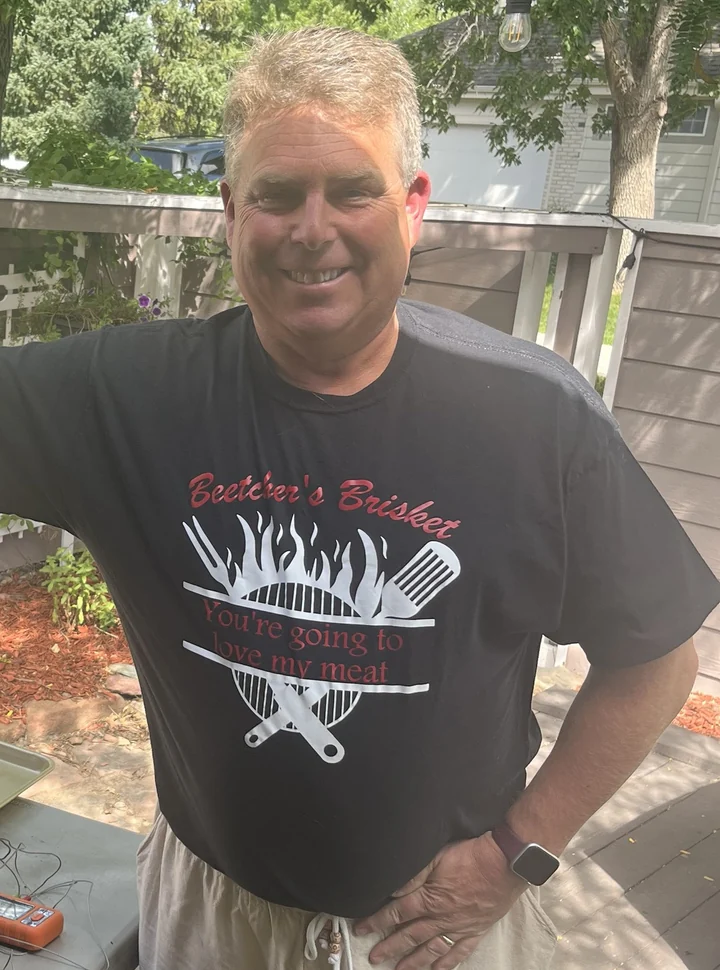
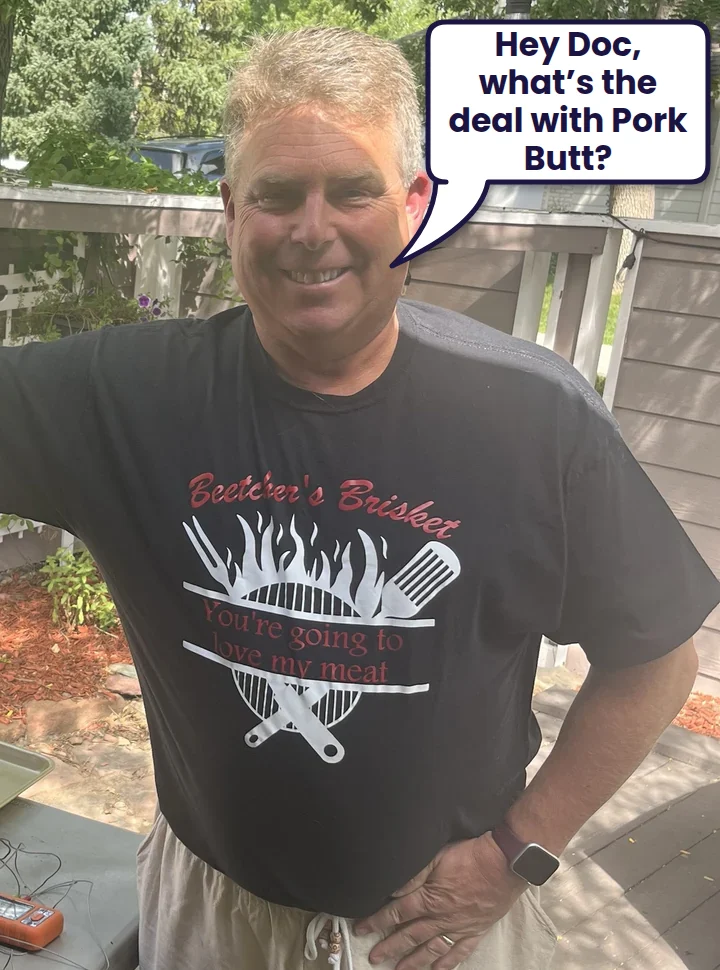
Brisket panel: sticky note and Pork Butt bubble; valley caption; Mesa Verde photo; intro in Todd's words

Changed region(s): [[0.55, 0.0, 1.0, 0.2784]]

diff --git a/enjoy/main.js b/enjoy/main.js
@@ -26,6 +26,7 @@ const ASK_ENDPOINT = '';
 // colors: two-stop gradient used when there is no image, and as the tint over one.
 // Each panel leads with the human result (what happened to someone Todd cares about), then the story, then how he asked.
 // NOTE: prompts and payoffs below are PLACEHOLDER sample content until Todd supplies real ones.
+// note: optional sticky note stuck on the collage board (text that belongs with the photos).
 // collage: 'pair' gives two landscape photos equal weight (default layout favors one large print and one small sticker).
 // photos: [{ src, alt, kind: 'print' | 'cutout', rot: degrees, hold: 'tape' | 'corners' | 'magnet' | 'pin' | 'clip' | 'none' }]
 // Like photos on a fridge: each one can be held up its own way.
@@ -49,7 +50,8 @@ const STORIES = [
     id: 'brisket',
     category: 'Cooking',
     title: 'Cook a brisket without the panic',
-    line: 'I asked AI how to cook a brisket, and our friend Diana and her daughters, Kate and Melissa, came over to eat it. It never made it from the counter to the table: everyone stood around and carved it up. Meat candy. Friends have been talking about it for years.',
+    line: 'It never made it from the counter to the table: everyone stood around and carved it up. Meat candy. Friends have been talking about it for years.',
+    note: 'I asked Doc how to cook a brisket, and our friend Diana and her daughters, Kate and Melissa, came over to eat it.',
     promptLabel: 'See how I asked',
     prompt: 'For thirty years I let my wife cook the burgers and the chicken and pretended I didn\u2019t know the grill. Then I asked AI. The trick wasn\u2019t \u201chow do I cook a brisket?\u201d It was learning to ask like this, step by step:',
     steps: [
@@ -181,6 +183,12 @@ function renderStories() {
         fig.appendChild(im);
         board.appendChild(fig);
       });
+      if (story.note) {
+        panel.classList.add('moment--note');
+        const note = el('figure', 'sticker sticker--note');
+        note.appendChild(el('p', '', story.note));
+        board.appendChild(note);
+      }
       panel.appendChild(board);
     }
 

diff --git a/enjoy/about/style.css b/enjoy/about/style.css
@@ -238,6 +238,17 @@ a.fab { display: inline-block; text-decoration: none; }
 .sticker:nth-child(2) { right: 0; bottom: 0; width: 42%; z-index: 2; }
 .sticker:only-child { left: 8%; top: 18%; width: 84%; }
 .moment--collage .moment__body { padding-top: var(--sp-lg); }
+/* Sticky note on the collage board */
+.sticker--note { background: #fff6a8; color: #2a1a3a; padding: 14px 16px 18px; border-radius: 4px; box-shadow: 0 12px 24px rgba(20,8,40,.4); font: 700 1.5rem/1.12 'Caveat', 'Comic Sans MS', cursive; }
+.sticker--note:nth-child(3) { left: 0; bottom: 0; width: 58%; z-index: 3; }
+.sticker--note p { margin: 0; }
+.moment--note .moment__photos { aspect-ratio: 1 / 1.25; }
+.moment--note .sticker--note { font-size: 1.25rem; width: 56%; }
+.moment--note .moment__photos { aspect-ratio: 1 / 1.35; }
+.moment--note .sticker:nth-child(1) { width: 68%; }
+.moment--note .sticker:nth-child(2) { width: 62%; bottom: 0; }
+.moment--note .sticker--note:nth-child(3) { bottom: auto; top: 44%; left: 0; }
+
 /* Pair layout: two landscape prints of similar weight */
 .moment--pair .moment__photos { aspect-ratio: 1 / 1.1; width: min(92%, 460px); }
 .moment--pair .sticker:nth-child(1) { left: 0; top: 0; width: 76%; }
@@ -247,6 +258,11 @@ a.fab { display: inline-block; text-decoration: none; }
   .moment--collage .moment__body { margin: 0; max-width: 560px; padding-left: max(var(--content-padding), calc((100vw - 960px) / 2)); }
   .moment--collage .moment__photos { position: absolute; right: max(3%, calc((100vw - 1100px) / 2)); top: 50%; transform: translateY(-50%); width: min(46vw, 560px); margin: 0; }
   .moment--pair .moment__photos { aspect-ratio: 1 / 1.05; width: min(48vw, 600px); }
+  .moment--note .moment__photos { aspect-ratio: 1 / 1; }
+  .moment--note .sticker--note { font-size: 1.5rem; width: 58%; }
+  .moment--note .sticker:nth-child(1) { width: 66%; }
+  .moment--note .sticker:nth-child(2) { width: 52%; }
+  .moment--note .sticker--note:nth-child(3) { top: auto; bottom: 0; width: 50%; }
 }
 
 /* ------- Easter egg: the period after the hero line is a door to /agora/ ------- */

diff --git a/enjoy/agora/style.css b/enjoy/agora/style.css
@@ -238,6 +238,17 @@ a.fab { display: inline-block; text-decoration: none; }
 .sticker:nth-child(2) { right: 0; bottom: 0; width: 42%; z-index: 2; }
 .sticker:only-child { left: 8%; top: 18%; width: 84%; }
 .moment--collage .moment__body { padding-top: var(--sp-lg); }
+/* Sticky note on the collage board */
+.sticker--note { background: #fff6a8; color: #2a1a3a; padding: 14px 16px 18px; border-radius: 4px; box-shadow: 0 12px 24px rgba(20,8,40,.4); font: 700 1.5rem/1.12 'Caveat', 'Comic Sans MS', cursive; }
+.sticker--note:nth-child(3) { left: 0; bottom: 0; width: 58%; z-index: 3; }
+.sticker--note p { margin: 0; }
+.moment--note .moment__photos { aspect-ratio: 1 / 1.25; }
+.moment--note .sticker--note { font-size: 1.25rem; width: 56%; }
+.moment--note .moment__photos { aspect-ratio: 1 / 1.35; }
+.moment--note .sticker:nth-child(1) { width: 68%; }
+.moment--note .sticker:nth-child(2) { width: 62%; bottom: 0; }
+.moment--note .sticker--note:nth-child(3) { bottom: auto; top: 44%; left: 0; }
+
 /* Pair layout: two landscape prints of similar weight */
 .moment--pair .moment__photos { aspect-ratio: 1 / 1.1; width: min(92%, 460px); }
 .moment--pair .sticker:nth-child(1) { left: 0; top: 0; width: 76%; }
@@ -247,6 +258,11 @@ a.fab { display: inline-block; text-decoration: none; }
   .moment--collage .moment__body { margin: 0; max-width: 560px; padding-left: max(var(--content-padding), calc((100vw - 960px) / 2)); }
   .moment--collage .moment__photos { position: absolute; right: max(3%, calc((100vw - 1100px) / 2)); top: 50%; transform: translateY(-50%); width: min(46vw, 560px); margin: 0; }
   .moment--pair .moment__photos { aspect-ratio: 1 / 1.05; width: min(48vw, 600px); }
+  .moment--note .moment__photos { aspect-ratio: 1 / 1; }
+  .moment--note .sticker--note { font-size: 1.5rem; width: 58%; }
+  .moment--note .sticker:nth-child(1) { width: 66%; }
+  .moment--note .sticker:nth-child(2) { width: 52%; }
+  .moment--note .sticker--note:nth-child(3) { top: auto; bottom: 0; width: 50%; }
 }
 
 /* ------- Easter egg: the period after the hero line is a door to /agora/ ------- */

diff --git a/enjoy/built/style.css b/enjoy/built/style.css
@@ -238,6 +238,17 @@ a.fab { display: inline-block; text-decoration: none; }
 .sticker:nth-child(2) { right: 0; bottom: 0; width: 42%; z-index: 2; }
 .sticker:only-child { left: 8%; top: 18%; width: 84%; }
 .moment--collage .moment__body { padding-top: var(--sp-lg); }
+/* Sticky note on the collage board */
+.sticker--note { background: #fff6a8; color: #2a1a3a; padding: 14px 16px 18px; border-radius: 4px; box-shadow: 0 12px 24px rgba(20,8,40,.4); font: 700 1.5rem/1.12 'Caveat', 'Comic Sans MS', cursive; }
+.sticker--note:nth-child(3) { left: 0; bottom: 0; width: 58%; z-index: 3; }
+.sticker--note p { margin: 0; }
+.moment--note .moment__photos { aspect-ratio: 1 / 1.25; }
+.moment--note .sticker--note { font-size: 1.25rem; width: 56%; }
+.moment--note .moment__photos { aspect-ratio: 1 / 1.35; }
+.moment--note .sticker:nth-child(1) { width: 68%; }
+.moment--note .sticker:nth-child(2) { width: 62%; bottom: 0; }
+.moment--note .sticker--note:nth-child(3) { bottom: auto; top: 44%; left: 0; }
+
 /* Pair layout: two landscape prints of similar weight */
 .moment--pair .moment__photos { aspect-ratio: 1 / 1.1; width: min(92%, 460px); }
 .moment--pair .sticker:nth-child(1) { left: 0; top: 0; width: 76%; }
@@ -247,6 +258,11 @@ a.fab { display: inline-block; text-decoration: none; }
   .moment--collage .moment__body { margin: 0; max-width: 560px; padding-left: max(var(--content-padding), calc((100vw - 960px) / 2)); }
   .moment--collage .moment__photos { position: absolute; right: max(3%, calc((100vw - 1100px) / 2)); top: 50%; transform: translateY(-50%); width: min(46vw, 560px); margin: 0; }
   .moment--pair .moment__photos { aspect-ratio: 1 / 1.05; width: min(48vw, 600px); }
+  .moment--note .moment__photos { aspect-ratio: 1 / 1; }
+  .moment--note .sticker--note { font-size: 1.5rem; width: 58%; }
+  .moment--note .sticker:nth-child(1) { width: 66%; }
+  .moment--note .sticker:nth-child(2) { width: 52%; }
+  .moment--note .sticker--note:nth-child(3) { top: auto; bottom: 0; width: 50%; }
 }
 
 /* ------- Easter egg: the period after the hero line is a door to /agora/ ------- */

diff --git a/enjoy/clinic/style.css b/enjoy/clinic/style.css
@@ -238,6 +238,17 @@ a.fab { display: inline-block; text-decoration: none; }
 .sticker:nth-child(2) { right: 0; bottom: 0; width: 42%; z-index: 2; }
 .sticker:only-child { left: 8%; top: 18%; width: 84%; }
 .moment--collage .moment__body { padding-top: var(--sp-lg); }
+/* Sticky note on the collage board */
+.sticker--note { background: #fff6a8; color: #2a1a3a; padding: 14px 16px 18px; border-radius: 4px; box-shadow: 0 12px 24px rgba(20,8,40,.4); font: 700 1.5rem/1.12 'Caveat', 'Comic Sans MS', cursive; }
+.sticker--note:nth-child(3) { left: 0; bottom: 0; width: 58%; z-index: 3; }
+.sticker--note p { margin: 0; }
+.moment--note .moment__photos { aspect-ratio: 1 / 1.25; }
+.moment--note .sticker--note { font-size: 1.25rem; width: 56%; }
+.moment--note .moment__photos { aspect-ratio: 1 / 1.35; }
+.moment--note .sticker:nth-child(1) { width: 68%; }
+.moment--note .sticker:nth-child(2) { width: 62%; bottom: 0; }
+.moment--note .sticker--note:nth-child(3) { bottom: auto; top: 44%; left: 0; }
+
 /* Pair layout: two landscape prints of similar weight */
 .moment--pair .moment__photos { aspect-ratio: 1 / 1.1; width: min(92%, 460px); }
 .moment--pair .sticker:nth-child(1) { left: 0; top: 0; width: 76%; }
@@ -247,6 +258,11 @@ a.fab { display: inline-block; text-decoration: none; }
   .moment--collage .moment__body { margin: 0; max-width: 560px; padding-left: max(var(--content-padding), calc((100vw - 960px) / 2)); }
   .moment--collage .moment__photos { position: absolute; right: max(3%, calc((100vw - 1100px) / 2)); top: 50%; transform: translateY(-50%); width: min(46vw, 560px); margin: 0; }
   .moment--pair .moment__photos { aspect-ratio: 1 / 1.05; width: min(48vw, 600px); }
+  .moment--note .moment__photos { aspect-ratio: 1 / 1; }
+  .moment--note .sticker--note { font-size: 1.5rem; width: 58%; }
+  .moment--note .sticker:nth-child(1) { width: 66%; }
+  .moment--note .sticker:nth-child(2) { width: 52%; }
+  .moment--note .sticker--note:nth-child(3) { top: auto; bottom: 0; width: 50%; }
 }
 
 /* ------- Easter egg: the period after the hero line is a door to /agora/ ------- */

diff --git a/enjoy/curriculum/style.css b/enjoy/curriculum/style.css
@@ -238,6 +238,17 @@ a.fab { display: inline-block; text-decoration: none; }
 .sticker:nth-child(2) { right: 0; bottom: 0; width: 42%; z-index: 2; }
 .sticker:only-child { left: 8%; top: 18%; width: 84%; }
 .moment--collage .moment__body { padding-top: var(--sp-lg); }
+/* Sticky note on the collage board */
+.sticker--note { background: #fff6a8; color: #2a1a3a; padding: 14px 16px 18px; border-radius: 4px; box-shadow: 0 12px 24px rgba(20,8,40,.4); font: 700 1.5rem/1.12 'Caveat', 'Comic Sans MS', cursive; }
+.sticker--note:nth-child(3) { left: 0; bottom: 0; width: 58%; z-index: 3; }
+.sticker--note p { margin: 0; }
+.moment--note .moment__photos { aspect-ratio: 1 / 1.25; }
+.moment--note .sticker--note { font-size: 1.25rem; width: 56%; }
+.moment--note .moment__photos { aspect-ratio: 1 / 1.35; }
+.moment--note .sticker:nth-child(1) { width: 68%; }
+.moment--note .sticker:nth-child(2) { width: 62%; bottom: 0; }
+.moment--note .sticker--note:nth-child(3) { bottom: auto; top: 44%; left: 0; }
+
 /* Pair layout: two landscape prints of similar weight */
 .moment--pair .moment__photos { aspect-ratio: 1 / 1.1; width: min(92%, 460px); }
 .moment--pair .sticker:nth-child(1) { left: 0; top: 0; width: 76%; }
@@ -247,6 +258,11 @@ a.fab { display: inline-block; text-decoration: none; }
   .moment--collage .moment__body { margin: 0; max-width: 560px; padding-left: max(var(--content-padding), calc((100vw - 960px) / 2)); }
   .moment--collage .moment__photos { position: absolute; right: max(3%, calc((100vw - 1100px) / 2)); top: 50%; transform: translateY(-50%); width: min(46vw, 560px); margin: 0; }
   .moment--pair .moment__photos { aspect-ratio: 1 / 1.05; width: min(48vw, 600px); }
+  .moment--note .moment__photos { aspect-ratio: 1 / 1; }
+  .moment--note .sticker--note { font-size: 1.5rem; width: 58%; }
+  .moment--note .sticker:nth-child(1) { width: 66%; }
+  .moment--note .sticker:nth-child(2) { width: 52%; }
+  .moment--note .sticker--note:nth-child(3) { top: auto; bottom: 0; width: 50%; }
 }
 
 /* ------- Easter egg: the period after the hero line is a door to /agora/ ------- */

diff --git a/enjoy/faq/style.css b/enjoy/faq/style.css
@@ -238,6 +238,17 @@ a.fab { display: inline-block; text-decoration: none; }
 .sticker:nth-child(2) { right: 0; bottom: 0; width: 42%; z-index: 2; }
 .sticker:only-child { left: 8%; top: 18%; width: 84%; }
 .moment--collage .moment__body { padding-top: var(--sp-lg); }
+/* Sticky note on the collage board */
+.sticker--note { background: #fff6a8; color: #2a1a3a; padding: 14px 16px 18px; border-radius: 4px; box-shadow: 0 12px 24px rgba(20,8,40,.4); font: 700 1.5rem/1.12 'Caveat', 'Comic Sans MS', cursive; }
+.sticker--note:nth-child(3) { left: 0; bottom: 0; width: 58%; z-index: 3; }
+.sticker--note p { margin: 0; }
+.moment--note .moment__photos { aspect-ratio: 1 / 1.25; }
+.moment--note .sticker--note { font-size: 1.25rem; width: 56%; }
+.moment--note .moment__photos { aspect-ratio: 1 / 1.35; }
+.moment--note .sticker:nth-child(1) { width: 68%; }
+.moment--note .sticker:nth-child(2) { width: 62%; bottom: 0; }
+.moment--note .sticker--note:nth-child(3) { bottom: auto; top: 44%; left: 0; }
+
 /* Pair layout: two landscape prints of similar weight */
 .moment--pair .moment__photos { aspect-ratio: 1 / 1.1; width: min(92%, 460px); }
 .moment--pair .sticker:nth-child(1) { left: 0; top: 0; width: 76%; }
@@ -247,6 +258,11 @@ a.fab { display: inline-block; text-decoration: none; }
   .moment--collage .moment__body { margin: 0; max-width: 560px; padding-left: max(var(--content-padding), calc((100vw - 960px) / 2)); }
   .moment--collage .moment__photos { position: absolute; right: max(3%, calc((100vw - 1100px) / 2)); top: 50%; transform: translateY(-50%); width: min(46vw, 560px); margin: 0; }
   .moment--pair .moment__photos { aspect-ratio: 1 / 1.05; width: min(48vw, 600px); }
+  .moment--note .moment__photos { aspect-ratio: 1 / 1; }
+  .moment--note .sticker--note { font-size: 1.5rem; width: 58%; }
+  .moment--note .sticker:nth-child(1) { width: 66%; }
+  .moment--note .sticker:nth-child(2) { width: 52%; }
+  .moment--note .sticker--note:nth-child(3) { top: auto; bottom: 0; width: 50%; }
 }
 
 /* ------- Easter egg: the period after the hero line is a door to /agora/ ------- */

diff --git a/enjoy/style.css b/enjoy/style.css
@@ -238,6 +238,17 @@ a.fab { display: inline-block; text-decoration: none; }
 .sticker:nth-child(2) { right: 0; bottom: 0; width: 42%; z-index: 2; }
 .sticker:only-child { left: 8%; top: 18%; width: 84%; }
 .moment--collage .moment__body { padding-top: var(--sp-lg); }
+/* Sticky note on the collage board */
+.sticker--note { background: #fff6a8; color: #2a1a3a; padding: 14px 16px 18px; border-radius: 4px; box-shadow: 0 12px 24px rgba(20,8,40,.4); font: 700 1.5rem/1.12 'Caveat', 'Comic Sans MS', cursive; }
+.sticker--note:nth-child(3) { left: 0; bottom: 0; width: 58%; z-index: 3; }
+.sticker--note p { margin: 0; }
+.moment--note .moment__photos { aspect-ratio: 1 / 1.25; }
+.moment--note .sticker--note { font-size: 1.25rem; width: 56%; }
+.moment--note .moment__photos { aspect-ratio: 1 / 1.35; }
+.moment--note .sticker:nth-child(1) { width: 68%; }
+.moment--note .sticker:nth-child(2) { width: 62%; bottom: 0; }
+.moment--note .sticker--note:nth-child(3) { bottom: auto; top: 44%; left: 0; }
+
 /* Pair layout: two landscape prints of similar weight */
 .moment--pair .moment__photos { aspect-ratio: 1 / 1.1; width: min(92%, 460px); }
 .moment--pair .sticker:nth-child(1) { left: 0; top: 0; width: 76%; }
@@ -247,6 +258,11 @@ a.fab { display: inline-block; text-decoration: none; }
   .moment--collage .moment__body { margin: 0; max-width: 560px; padding-left: max(var(--content-padding), calc((100vw - 960px) / 2)); }
   .moment--collage .moment__photos { position: absolute; right: max(3%, calc((100vw - 1100px) / 2)); top: 50%; transform: translateY(-50%); width: min(46vw, 560px); margin: 0; }
   .moment--pair .moment__photos { aspect-ratio: 1 / 1.05; width: min(48vw, 600px); }
+  .moment--note .moment__photos { aspect-ratio: 1 / 1; }
+  .moment--note .sticker--note { font-size: 1.5rem; width: 58%; }
+  .moment--note .sticker:nth-child(1) { width: 66%; }
+  .moment--note .sticker:nth-child(2) { width: 52%; }
+  .moment--note .sticker--note:nth-child(3) { top: auto; bottom: 0; width: 50%; }
 }
 
 /* ------- Easter egg: the period after the hero line is a door to /agora/ ------- */

diff --git a/enjoy/testimonials/style.css b/enjoy/testimonials/style.css
@@ -238,6 +238,17 @@ a.fab { display: inline-block; text-decoration: none; }
 .sticker:nth-child(2) { right: 0; bottom: 0; width: 42%; z-index: 2; }
 .sticker:only-child { left: 8%; top: 18%; width: 84%; }
 .moment--collage .moment__body { padding-top: var(--sp-lg); }
+/* Sticky note on the collage board */
+.sticker--note { background: #fff6a8; color: #2a1a3a; padding: 14px 16px 18px; border-radius: 4px; box-shadow: 0 12px 24px rgba(20,8,40,.4); font: 700 1.5rem/1.12 'Caveat', 'Comic Sans MS', cursive; }
+.sticker--note:nth-child(3) { left: 0; bottom: 0; width: 58%; z-index: 3; }
+.sticker--note p { margin: 0; }
+.moment--note .moment__photos { aspect-ratio: 1 / 1.25; }
+.moment--note .sticker--note { font-size: 1.25rem; width: 56%; }
+.moment--note .moment__photos { aspect-ratio: 1 / 1.35; }
+.moment--note .sticker:nth-child(1) { width: 68%; }
+.moment--note .sticker:nth-child(2) { width: 62%; bottom: 0; }
+.moment--note .sticker--note:nth-child(3) { bottom: auto; top: 44%; left: 0; }
+
 /* Pair layout: two landscape prints of similar weight */
 .moment--pair .moment__photos { aspect-ratio: 1 / 1.1; width: min(92%, 460px); }
 .moment--pair .sticker:nth-child(1) { left: 0; top: 0; width: 76%; }
@@ -247,6 +258,11 @@ a.fab { display: inline-block; text-decoration: none; }
   .moment--collage .moment__body { margin: 0; max-width: 560px; padding-left: max(var(--content-padding), calc((100vw - 960px) / 2)); }
   .moment--collage .moment__photos { position: absolute; right: max(3%, calc((100vw - 1100px) / 2)); top: 50%; transform: translateY(-50%); width: min(46vw, 560px); margin: 0; }
   .moment--pair .moment__photos { aspect-ratio: 1 / 1.05; width: min(48vw, 600px); }
+  .moment--note .moment__photos { aspect-ratio: 1 / 1; }
+  .moment--note .sticker--note { font-size: 1.5rem; width: 58%; }
+  .moment--note .sticker:nth-child(1) { width: 66%; }
+  .moment--note .sticker:nth-child(2) { width: 52%; }
+  .moment--note .sticker--note:nth-child(3) { top: auto; bottom: 0; width: 50%; }
 }
 
 /* ------- Easter egg: the period after the hero line is a door to /agora/ ------- */

diff --git a/enjoy/ways/style.css b/enjoy/ways/style.css
@@ -238,6 +238,17 @@ a.fab { display: inline-block; text-decoration: none; }
 .sticker:nth-child(2) { right: 0; bottom: 0; width: 42%; z-index: 2; }
 .sticker:only-child { left: 8%; top: 18%; width: 84%; }
 .moment--collage .moment__body { padding-top: var(--sp-lg); }
+/* Sticky note on the collage board */
+.sticker--note { background: #fff6a8; color: #2a1a3a; padding: 14px 16px 18px; border-radius: 4px; box-shadow: 0 12px 24px rgba(20,8,40,.4); font: 700 1.5rem/1.12 'Caveat', 'Comic Sans MS', cursive; }
+.sticker--note:nth-child(3) { left: 0; bottom: 0; width: 58%; z-index: 3; }
+.sticker--note p { margin: 0; }
+.moment--note .moment__photos { aspect-ratio: 1 / 1.25; }
+.moment--note .sticker--note { font-size: 1.25rem; width: 56%; }
+.moment--note .moment__photos { aspect-ratio: 1 / 1.35; }
+.moment--note .sticker:nth-child(1) { width: 68%; }
+.moment--note .sticker:nth-child(2) { width: 62%; bottom: 0; }
+.moment--note .sticker--note:nth-child(3) { bottom: auto; top: 44%; left: 0; }
+
 /* Pair layout: two landscape prints of similar weight */
 .moment--pair .moment__photos { aspect-ratio: 1 / 1.1; width: min(92%, 460px); }
 .moment--pair .sticker:nth-child(1) { left: 0; top: 0; width: 76%; }
@@ -247,6 +258,11 @@ a.fab { display: inline-block; text-decoration: none; }
   .moment--collage .moment__body { margin: 0; max-width: 560px; padding-left: max(var(--content-padding), calc((100vw - 960px) / 2)); }
   .moment--collage .moment__photos { position: absolute; right: max(3%, calc((100vw - 1100px) / 2)); top: 50%; transform: translateY(-50%); width: min(46vw, 560px); margin: 0; }
   .moment--pair .moment__photos { aspect-ratio: 1 / 1.05; width: min(48vw, 600px); }
+  .moment--note .moment__photos { aspect-ratio: 1 / 1; }
+  .moment--note .sticker--note { font-size: 1.5rem; width: 58%; }
+  .moment--note .sticker:nth-child(1) { width: 66%; }
+  .moment--note .sticker:nth-child(2) { width: 52%; }
+  .moment--note .sticker--note:nth-child(3) { top: auto; bottom: 0; width: 50%; }
 }
 
 /* ------- Easter egg: the period after the hero line is a door to /agora/ ------- */

diff --git a/enjoy/index.html b/enjoy/index.html
@@ -19,7 +19,7 @@
   <link rel="apple-touch-icon" href="favicon-180.png">
   <link rel="preconnect" href="https://fonts.googleapis.com">
   <link rel="preconnect" href="https://fonts.gstatic.com" crossorigin>
-  <link href="https://fonts.googleapis.com/css2?family=DM+Sans:ital,wght@0,400;0,500;0,700;0,800;1,500&display=swap" rel="stylesheet">
+  <link href="https://fonts.googleapis.com/css2?family=DM+Sans:ital,wght@0,400;0,500;0,700;0,800;1,500&family=Caveat:wght@700&display=swap" rel="stylesheet">
   <link rel="stylesheet" href="style.css">
 </head>
 <body>
